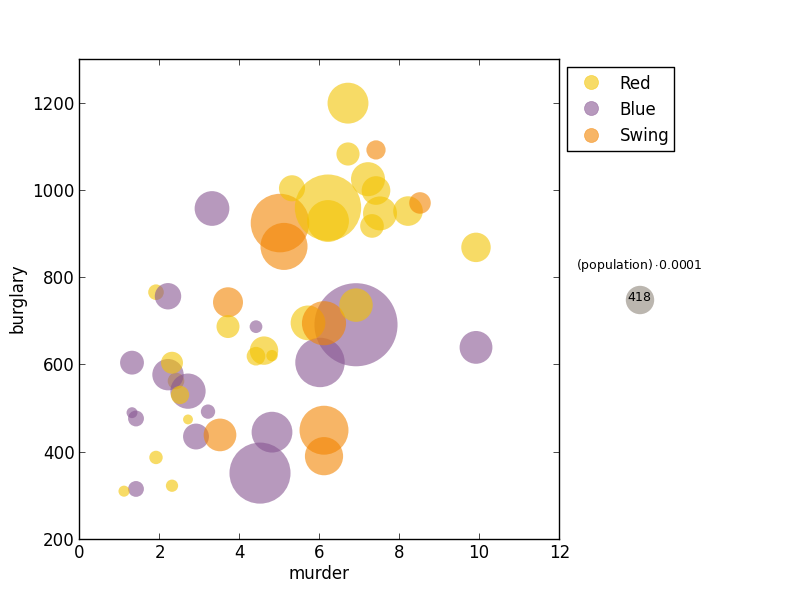
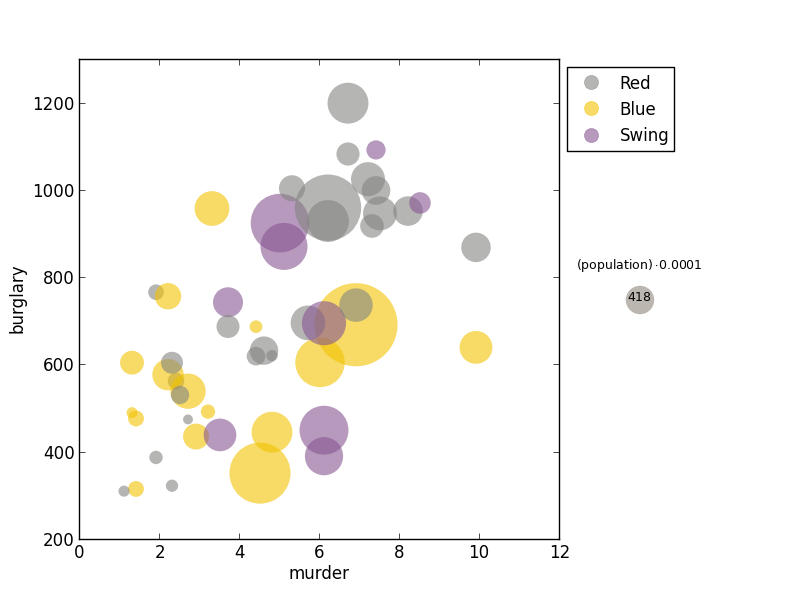
...

diff --git a/bubble.py b/bubble.py
@@ -24,8 +24,31 @@ Z_transform, Z_transform_label = None, lambda(x):x
 OUTPUT_FORMAT = 'png'
 
 ##-------------------------------------------------------------------
-# 20 of Kelly’s 22 colours of maximum contrast
-COLORS = [('#f3c300', 'Vivid Yellow',1), ('#875692', 'Strong Purple',2), ('#f38400', 'Vivid Orange',3), ('#a1caf1', 'Very Light Blue',4), ('#be0032', 'Vivid Red',5), ('#c2b280', 'Grayish Yellow',6), ('#848482', 'Medium Gray',7), ('#008856', 'Vivid Green',8), ('#e68fac', 'Strong Purplish Pink',9), ('#0067a5', 'Strong Blue',10), ('#f99379', 'Strong Yellowish Pink',11), ('#604e97', 'Strong Violet',12), ('#f6a600', 'Vivid Orange Yellow',13), ('#b3446c', 'Strong Purplish Red',14), ('#dcd300', 'Vivid Greenish Yellow',15), ('#882d17', 'Strong Reddish Brown',16), ('#27a64c', 'Vivid Yellowish Green',17), ('#654522', 'Deep Yellowish Brown',18), ('#e25822', 'Vivid Reddish Orange',19), ('#2b3d26', 'Dark Olive Green',20)]
+## 21 out of Kelly's 22 colours of maximum mutual contrast
+COLORS = [
+   # ('#101010', 'Light Black',0),
+   ('#848482', 'Medium Gray',7),
+   ('#f3c300', 'Vivid Yellow',1),
+   ('#875692', 'Strong Purple',2),
+   ('#f38400', 'Vivid Orange',3),
+   ('#a1caf1', 'Very Light Blue',4),
+   ('#be0032', 'Vivid Red',5),
+   ('#c2b280', 'Grayish Yellow',6),
+   ('#848482', 'Medium Gray',7),
+   ('#008856', 'Vivid Green',8),
+   ('#e68fac', 'Strong Purplish Pink',9),
+   ('#0067a5', 'Strong Blue',10),
+   ('#f99379', 'Strong Yellowish Pink',11),
+   ('#604e97', 'Strong Violet',12),
+   ('#f6a600', 'Vivid Orange Yellow',13),
+   ('#b3446c', 'Strong Purplish Red',14),
+   ('#dcd300', 'Vivid Greenish Yellow',15),
+   ('#882d17', 'Strong Reddish Brown',16),
+   ('#27a64c', 'Vivid Yellowish Green',17),
+   ('#654522', 'Deep Yellowish Brown',18),
+   ('#e25822', 'Vivid Reddish Orange',19),
+   ('#2b3d26', 'Dark Olive Green',20),
+]
 
 Categories = []
 All_Z = []
